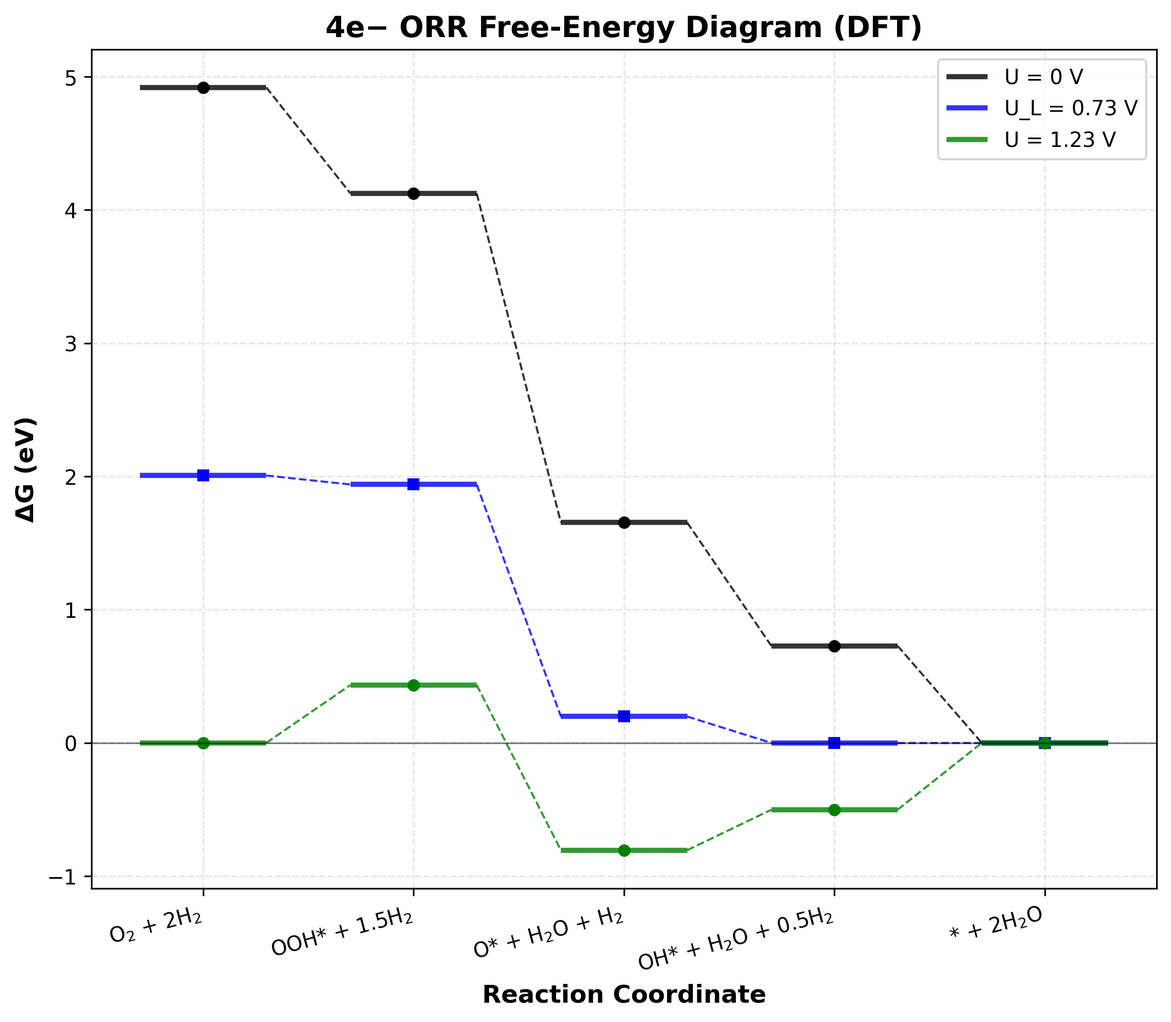
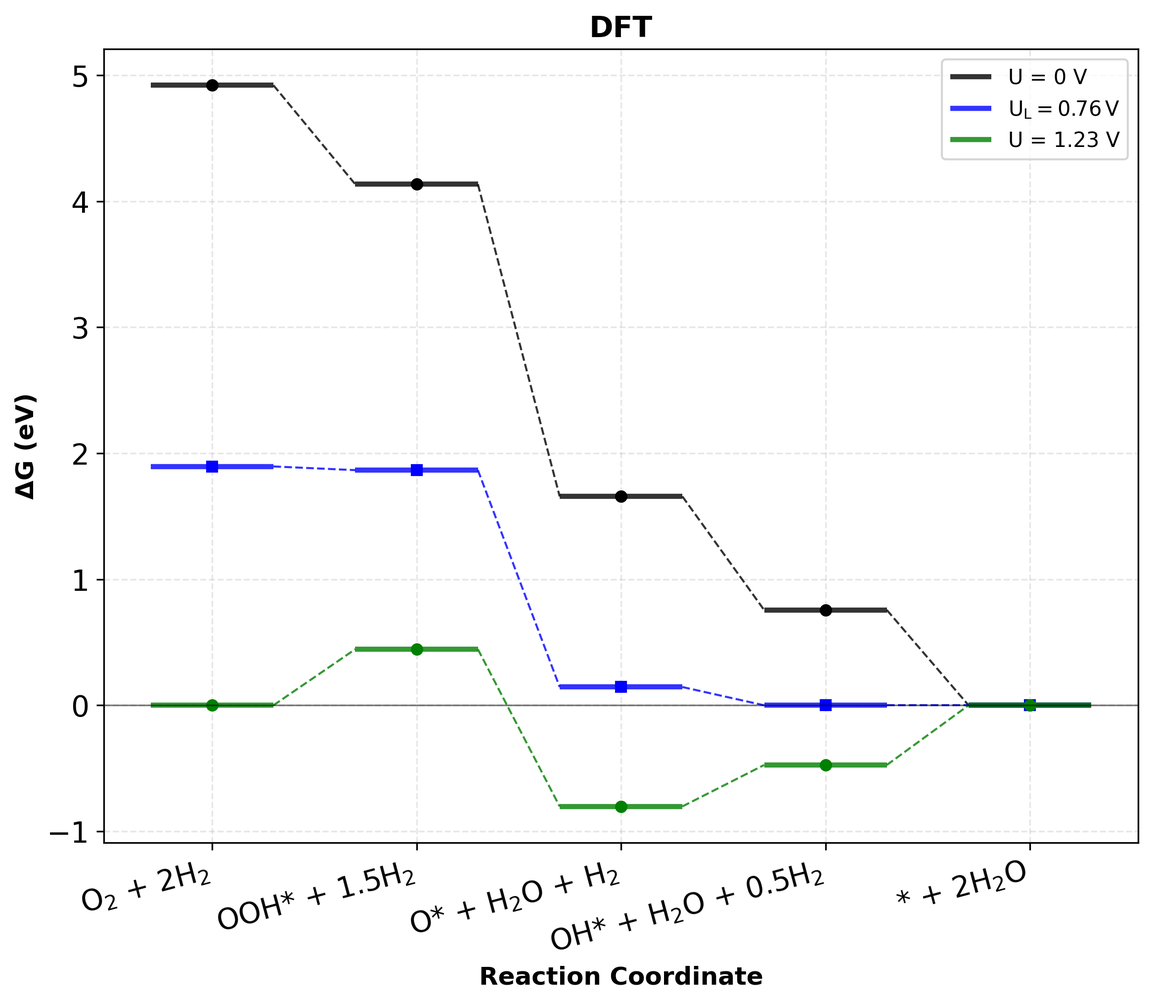
add result

diff --git a/paper/paper.md b/paper/paper.md
@@ -7,20 +7,20 @@ csl: american-chemical-society.csl
 
 ## Abstract
 
-合金触媒では高活性な原子組成と配置を効率的に探索、最適化することが重要である。本研究ではユニバーサルニューラルネットワークポテンシャルと条件付き変分オートエンコーダを統合し、Pt–Ni 合金表面の酸素還元反応（ORR）を対象に、活性と安定性を同時に最適化する構造の反復的生成・評価ワークフローを構築した。cVAE は、計算水素電極（CHE）に基づく過電圧 η と合金形成エネルギー E_form を条件ラベルとして学習し、条件を指定して新規構造を生成する。各候補の評価は NNP により高速化され、合計6回のイテレーションで各 128 構造、合計計 768 件を生成・評価した。イテレーションの進行に伴い、それぞれ生成されたデータセットの η 分布は低電位側にシフトし、平均値は 1.126 から 0.520 V へ低下した。同時に E_form の平均値は −0.027 から −0.047 eV/atom へと推移し、熱力学的安定性が向上した。さらに、学習されたVAEのエンコーダを用いて各イテレーションで得られたデータをマッピングすることで、初期データセットには含まれていないデータ空間からの構造生成が行われていることが確認された。本手法は、限られた初期データからでも、活性と安定性を同時に満たす構造を外挿的に提案できる枠組みであり、合金触媒の計算スクリーニングを大幅に効率化しうることを示す。
+高活性な合金触媒の設計に向け原子組成と配置を効率的に探索、最適化することが重要である。本研究ではユニバーサルニューラルネットワークポテンシャルと条件付き変分オートエンコーダを統合し、Pt–Ni 合金表面における酸素還元反応（ORR）を対象に、活性と安定性を同時に最適化する構造の反復的な生成・評価ワークフローを構築した。cVAE は、計算水素電極（CHE）に基づく過電圧 η と合金形成エネルギー E_form を条件ラベルとして学習し、条件を指定して新規構造を生成する。各構造の評価は NNP により行われ、6 回のイテレーションで各 128 構造、計 768 件を生成・評価した。イテレーションの進行に伴い、それぞれ生成されたデータセットの η 分布は低電位側にシフトし、平均値は 1.126 から 0.520 V へ低下した。同時に E_form の平均値は −0.027 から −0.047 eV/atom へと推移し、安定性が向上を確認した。さらに、学習された VAE のエンコーダを用いて各イテレーションで得られたデータをマッピングすることで、初期データに含まれない潜在空間領域の構造を生成していること、そして初期データセットとは異なる構造特性のデータが生成されていることが確認された。本手法は、限られた初期データからでも、活性と安定性を同時に満たす構造を外挿的に提案できる枠組みであり、合金触媒の開発を大幅に効率化しうることを示す。
 
 ## 1. Introduction
 
-固体高分子形燃料電池（PEMFC）は、再生可能エネルギー由来の水素を活用できるクリーンな発電技術として注目されている。一方で、カソードにおける酸素還元反応（oxygen reduction reaction, ORR）の速度が実用化のボトルネックであり、高活性かつ安価な電極触媒の開発が課題である。商用触媒としては白金（Pt）が中心であるが、希少性とコストの問題から、Ptに安価元素を合金化して性能と資源制約のバランスを取る戦略が広く検討されている。なかでもPt–Niは代表的な合金触媒であるものの、合金の組成・配置と活性・安定性の関係は、報告により最適比が異なるなど未だ統一的な理解に達していない。
+固体高分子形燃料電池（PEMFC）は、再生可能エネルギー由来の水素を活用できるクリーンな発電技術として注目されている。一方で、カソードにおける酸素還元反応（oxygen reduction reaction, ORR）の速度が実用化のボトルネックであり、高活性な電極触媒の開発が課題である。商用触媒としては白金（Pt）が中心であるが、希少性とコストの問題から、Pt に安価な元素を合金化して性能と資源制約のバランスを取る戦略が広く検討されている。なかでも Pt–Ni は代表的な合金触媒であるものの、合金の組成・配置と活性・安定性の関係は、報告により最適比が異なるなど未だ統一的な理解に達していない。
 
 こうした合金触媒の最適化に向けた材料設計では、元素組成比と原子配置の組合せは膨大であり、第一原理計算（DFT）を用いた候補パターンの網羅的探索は計算資源の観点から現実的でない。また、記述子ベースの機械学習によるスクリーニングは、重要な特徴量の決定と特性予測に有効であるが、モデルの学習には十分なデータ量の確保、そして新構造の探索には作成したモデルを用いた多数の推論が必要となり未知の化学データ空間からの構造生成は難しい。そこで、材料特性から構造への逆設計に向けて、生成モデルの利用が提案されており、未知の化学データ空間からの構造生成に対して有効なアプローチとして期待されている。
 
 特に、合金触媒設計において生成モデルを活用することで、既存データに含まれない外挿的な合金触媒構造候補の提案が可能であることが示されている。
-しかし、生成モデルよる提案構造を都度DFTで評価するワークフローは、データ数の拡大とともに急速に非効率化する。この課題に対し、第一原理計算データで事前学習したユニバーサルニューラルネットワークポテンシャル（NNP）を用いると、DFTに近い精度を維持しながら計算を高速化でき、反復的な生成・評価ループの実用性が大きく向上する。
+しかし、生成モデルによる提案構造を都度 DFT で評価するワークフローは、データ数の拡大とともに急速に非効率化する。この課題に対し、第一原理計算データで事前学習したユニバーサルニューラルネットワークポテンシャル（NNP）を用いると、DFT に近い精度を維持しながら計算を高速化でき、イテレーション型の生成・評価ループの実用性が大きく向上する。
 
-これらの触媒設計には生成モデルとしてGANが用いられているが、バルク材料の設計においてはGAN同様に一般的な生成モデルである変分オートエンコーダ(VAE)も利用されている。そして、VAEはGANに比べて、訓練が比較的容易で安定化しやすく、よく正則化された連続的な潜在空間を活用してサンプリングや補間により未観測候補を生成しやすく、さらに条件付き学習により高精度に所望クラス（ラベル）を直接指定して生成できることが報告されている。
+これらの触媒設計には生成モデルとしてGANが用いられているが、バルク材料の設計においてはGAN同様に一般的な生成モデルである変分オートエンコーダ(VAE)も利用されている。そして、VAEはGANに比べて、訓練が比較的容易で安定化しやすく、よく正則化された連続的な潜在空間を活用してサンプリングや補間により未観測候補を生成しやすい。さらに条件付き学習により高精度に所望クラス（ラベル）を直接指定して生成できることが報告されている。
 
-そこで本研究は、Pt–Ni 合金表面の ORR を対象に、ユニバーサル NNP による高速評価と生成モデルによる構造生成を統合した反復的な設計ワークフローを提案する。具体的には、計算水素電極（CHE）に基づく過電圧（η）と合金形成エネルギー（E_form）を同時に条件付けた条件付き変分オートエンコーダ（cVAE）で新規構造を生成し、NNPで迅速に評価する工程を反復することで、活性（低η）と安定性（低E_form）を両立したPt-Ni触媒を効率的に探索する。
+そこで本研究は、Pt–Ni 合金表面の ORR を対象に、ユニバーサル NNP による高速評価と生成モデルによる構造生成を統合したイテレーション型の設計ワークフローを提案する。具体的には、計算水素電極（CHE）に基づく過電圧（η）と合金形成エネルギー（E_form）を同時に条件付けた条件付き変分オートエンコーダ（cVAE）で新規構造を生成し、NNP で迅速に評価する工程をイテレーションとして繰り返すことで、活性（低 η）と安定性（低 E_form）を両立した Pt–Ni 触媒を効率的に探索する。
 
 ## 2. Methods
 
@@ -51,7 +51,7 @@ $$U_L=\min_i\left[\frac{\Delta G_i(0)}{e}\right],\quad \eta=1.23-U_L\;\mathrm{[V
 
 スラブモデルは fcc(111) 面からなる 4 層の(4×4)の64原子構造であり、下 2 層を固定、上 2 層と吸着種は全自由度で緩和した。z 方向には 15 Å の真空を設け、表面法線方向の双極子補正を適用した。構造最適化は最大残差力 0.05 eV/Å を閾値として収束させ、気相参照の H2 と H2O は 15 Å 立方セル中で最適化して用いた。吸着系では OOH、O、OH を ontop／bridge／fcc‑hollow／hcp‑hollow に初期配置して最安定サイトを採用した。また、セルサイズは真空層を付与する前に最適化した。
 
-なお、本研究の反復ループにおける η と E_form の評価は一貫して NNP（uma‑s‑1p1）で実施し、DFT は NNP の検証および代表構造の解析に用いた。
+なお、本研究のイテレーション・ループにおける η と E_form の評価は一貫して NNP（uma‑s‑1p1）で実施し、DFT は NNP の検証および代表構造の解析に用いた。
 
 ## 2.3 Variational Auto-Encoder
 
@@ -92,9 +92,9 @@ iter0〜iter5 の 6 イテレーションを実施し，1 iter あたり 128 構
 ## 3. Results and Discussion
 
 ## 3.1 Accuracy of NNP
-本研究で用いたユニバーサル NNP（uma‑s‑1p1）のPt-Ni合金系への適応の妥当性を、DFT 計算との直接比較で検証した。Figure 1 は、Pt–Ni 合金構造に対して求めた（i）ORR 過電圧 η（V）と（ii）合金形成エネルギー E_form（eV/atom）について、DFT（横軸）と NNP（縦軸）のパリティを示す。いずれもスピアマンの順位相関係数が高く、過電圧で ρ ≈ 0.985、形成エネルギーで ρ ≈ 0.982、絶対誤差はそれぞれ MAE ≈ 0.060 V、MAE ≈ 0.007 eV/atom であった。
+本研究で用いたユニバーサル NNP（uma‑s‑1p1）のPt-Ni合金系への適応の妥当性を、DFT 計算との直接比較で検証した。Figure 1 は、Pt–Ni 合金構造に対して求めた（i）ORR 過電圧 η（V）と（ii）合金形成エネルギー E_form（eV/atom）について、DFT（横軸）と NNP（縦軸）のプロットを示す。いずれもスピアマンの順位相関係数が高く、過電圧で ρ ≈ 0.985、形成エネルギーで ρ ≈ 0.982であり、データ間の大小関係が維持されていることが確認できる。また、絶対誤差はそれぞれ MAE ≈ 0.060 V、MAE ≈ 0.007 eV/atom であった。
 
-プロットはおおむね対角線上に分布し、特に η では広い値域（約 0.5–1.8 V）で一致が保たれている。E_form については、-0.03 meV/atom未満の領域で NNP が不安定側へ過小評価する傾向が見られるものの、系統誤差は0.01 meV/atom 程度であり、スクリーニング用途としては許容範囲である。したがって、本研究の反復的生成ワークフローでは、NNP による特性評価が妥当であると判断した。
+プロットはおおむね対角線上に分布し、特に η では広い値域（約 0.5–1.8 V）で一致が保たれている。E_form については、−0.03 eV/atom 未満の領域で NNP が不安定側へ過小評価する傾向が見られるものの、系統誤差は 0.01 eV/atom 程度であり、スクリーニング用途としては許容範囲である。したがって、本研究のイテレーション型生成ワークフローでは、NNP による特性評価が妥当であると判断した。
 
 ここで、合金形成エネルギーは以下で定義する。
 
@@ -112,9 +112,9 @@ Figure 1. Parity plots of overpotential (V) and alloy formation energy (eV/atom)
 
 ## 3.2 Iterative Improvement and Data Distributions
 
-反復的な生成・評価過程により、過電圧および合金形成エネルギーの分布は高性能側へ系統的に推移した。Figure 2 のバイオリンプロットから、iter の進行とともに過電圧分布が低電位側に、形成エネルギー分布がより負（熱力学的に安定）な側へ移動する傾向が確認できる。定量的には、iter0→iter5で過電圧の平均は 1.126 V から 0.520 V へ、合金形成エネルギーの平均は −0.027 eV/atom から −0.047 eV/atom へとそれぞれ低下した（詳細統計は SI 参照）。
+イテレーションによる生成・評価過程により、過電圧および合金形成エネルギーの分布は高性能側へ系統的に推移した。Figure 2 のバイオリンプロットから、iter の進行とともに過電圧分布が高活性側に、形成エネルギー分布がより安定な方へ移動する傾向が確認できる。定量的には、iter0→iter5 で過電圧の平均は 1.126 V から 0.520 V へ、合金形成エネルギーの平均は −0.027 eV/atom から −0.047 eV/atom へとそれぞれ低下した。
 
-分布の同時変化を二次元上で俯瞰すると（Figure 3）、過電圧の低下とともに合金形成エネルギーもより負の領域へ移動し、活性と安定性の両立に向けてデータ群が収束していく様子が確認できる。
+分布の同時変化を二次元上で俯瞰すると（Figure 3）、過電圧の低下とともに合金形成エネルギーもより負の領域へ移動し、活性と安定性の両立に向けて均一なデータが生成されていく様子が確認できる。
 
 Figure 2. Combined distributions of alloy formation energy and overpotential (iter0–5).
 
@@ -126,24 +126,38 @@ Figure 3. Overpotential vs. alloy formation energy (iter0–5).
 
 ## 3.3 Latent-Space Visualization and Property-Colored Distributions
 
-iter5 の学習済み VAE のエンコーダから得た潜在平均（μ）を t‑SNE により 2 次元に可視化すると、生成・評価の反復に伴い、データ群は潜在空間上で初期分布（iter0）から離れた領域へと拡張していることが確認できる。
+データの分布特性を解析するために、イテレーション 5 で学習した cVAE のエンコーダを用い、各構造（iter0–5）を32次元の潜在空間に圧縮したのちに、t‑SNE で 2 次元に可視化した。Figure 4（上）はイテレーションごとに色分けした結果である。初期データ（iter0）は図の左側の領域に主に分布するのに対し、iter1 以降は点群が中央〜右側へと大きく広がっている。これは、イテレーションの過程で iter0 には存在しなかったデータ空間の領域にまで、構造探索・生成が拡張したことを示している。
 
-Figure 4. t‑SNE colored by iteration (VAE latent mean μ; iter0–5).
+さらに、合金触媒の構造が潜在座標にどう反映されるかを確かめるため、各点を「最表面層の Pt 原子数が下層と比べてどれだけ多いか」を表す指標で色付けした。指標は次式で定義した：
+
+$$
+\mathrm{Surface\ Pt\ excess}
+\;=\;
+\frac{1}{3}\sum_{k=2}^{4}\bigl[\,N_{\mathrm{Pt}}^{(\mathrm{top})}-N_{\mathrm{Pt}}^{(k)}\,\bigr],
+$$
+
+ここで $N_{\mathrm{Pt}}^{(\ell)}$ は層 $\ell$ に含まれる Pt 原子数である。結果として、iter0 では 0 近傍の点がほとんどで、表面と下層の Pt 数が概ね同程度である。一方、iter1 以降では正の値（赤）をとる点が顕著に増え、最表面の Pt が下層（2〜4 層の平均）より優位に多い、いわゆるPtスキンの構造が選択的に生成されていることが分かる。これは 3.2 節で示した過電圧分布の改善（低 η 側へのシフト）とも整合的である。
+
+以上より、反復的な構造生成と評価により、初期データには存在しなかった潜在空間の領域までデータが拡張されること、同時に、Ptスキン構造の顕在化という物理化学的に意味のある特徴の発生が潜在空間のマッピングと対応していることが確認された。
+
+Figure 4. 上: t‑SNE colored by iteration (VAE latent mean μ; iter0–5). 下: t‑SNE colored by Surface Pt excess (count).
 
 <img src="fig/tsne_latent_space_iter0-5_mean.png" alt="t-SNE latent space (mean) iter0-5" style="width: 50%; background-color: white;">
+
+<img src="fig/tsne_latent_space_pt_layer_diff_iter0-5_mean.png" alt="t-SNE latent space (mean) iter0-5" style="width: 50%; background-color: white;">
 
 
 ## 3.4 Evolution of Catalytic Properties
 
-各イテレーションで得られた触媒構造の特性が（i）活性の先行研究トレンドと矛盾せず、（ii）反復生成・評価により系統的に改善されていくことを確認する。Figure 5 は ORR の CHE と線形スケーリング則に基づくボルケーノプロットに、各 iter の構造を重ね合わせたものであり、Figure 6 は組成と安定性を対応付けた相図である。
+各イテレーションで得られた触媒構造の特性が、触媒活性の先行研究トレンドと矛盾せず、イテレーションにより系統的に改善されていくことを確認する。Figure 5 は ORR の CHE と線形スケーリング則に基づくボルケーノプロットに、各イテレーションの構造を重ね合わせたものであり、Figure 6 は組成比と合金形成エネルギーを対応付けた相図である。
 
-Figure 5 では、x 軸に ΔG_OH、y 軸に理論限界電位 U_L を取り、CHE およびスケーリング関係から得られる 2 本の境界直線（強結合側: U_L = ΔG_OH、弱結合側: U_L = 1.72 − ΔG_OH）と理想水平線（U_L = 1.23 V）を示した。2 直線の交点は ΔG_OH ≈ 0.86 eV であり、ここがボルケーノプロットの頂点（U_L 最大）に対応する。iter の進行とともに、データ点は頂点近傍へと集約する傾向を示し、活性が理論最適領域へ近づく様子が確認できる。すなわち、3.2 節の η 分布の低下に対応して、ボルケーノプロット上でも U_L が高い領域である ΔG_OH ≈ 0.86 eV への移動が観測される。
+Figure 5 では、x 軸に ΔG_OH、y 軸に理論限界電位 U_L を取り、CHE およびスケーリング関係から得られる 2 本の境界直線（強結合側: U_L = ΔG_OH、弱結合側: U_L = 1.72 − ΔG_OH）と理想水平線（U_L = 1.23 V）を示した。2 直線の交点は ΔG_OH ≈ 0.86 eV であり、ここがボルケーノプロットの頂点（U_L 最大）に対応する。反復の進行とともに、データ点は頂点近傍へと集約する傾向を示し、活性が理論最適領域へ近づく様子が確認できる。すなわち、3.2 節の η 分布の低下に対応して、ボルケーノプロット上でも U_L が高い領域である ΔG_OH ≈ 0.86 eV への移動が観測される。
 
 Figure 5. Volcano plot: ΔG_OH vs limiting potential (iter0–5).
 
 <img src="fig/volcano_dG_OH_vs_limiting_potential_iter0-5.png" alt="Volcano plot" style="width: 50%; background-color: white;">
 
-次に Figure 6 は、Ni 含有率（x_Ni）と合金形成エネルギー E_form（eV/atom、負ほど安定）の相図を iter 色で示す。iter の進行に伴い、分布はより負の E_form 側へ推移しつつ、x_Ni ≈ 0.4–0.6 の等量近傍にサンプルが集中する傾向が見られる。これは、活性が高い領域（Figure 5 の頂点近傍）と、熱力学的に安定な領域（より負の E_form）が、探索の反復によって同時に強化されていることを示唆する。
+次に Figure 6 は、Ni 含有率（x_Ni）と合金形成エネルギー E_form（eV/atom、負ほど安定）の相図を iter 色で示す。iter の進行に伴い、分布はより負の E_form 側へ推移しつつ、x_Ni ≈ 0.4–0.6 の等量近傍にサンプルが集中する傾向が見られる。これは、活性が高い領域（Figure 5 の頂点近傍）と、熱力学的に安定な領域（より負の E_form）が、探索の反復によって同時に改善されていることを示唆する。
 
 Figure 6. Phase diagram: Ni fraction vs formation energy colored by iter.
 
@@ -152,23 +166,20 @@ Figure 6. Phase diagram: Ni fraction vs formation energy colored by iter.
  
 ## 3.5 DFT Validation
 
-iter5 で得られた生成構造の一つである Pt33Ni31（Ni31Pt33）について、DFT による検証を行った。吸着構造については OH* と OOH* は NNP と DFT で得られた最安定配置が共に一致したが、O* については両者でわずかな差異が見られた。Figure 7 に、NNP/DFT の最安定構造（OH* / O* / OOH*）と対応する吸着反応エネルギー ΔE をまとめて示す。一方で、ORR 自由エネルギーダイアグラムを比較したところ、限界電位は NNP/DFT でそれぞれ 0.713 V および 0.728 V、過電圧は 0.517 V および 0.502 V であり、両者は同じ律速段階（OH* → H2O）を示し、数値差は ≲0.02 V と良好に一致していた。
+最終的にイテレーション 5 で得られた構造のうち、η < 0.60 V かつ E_form < −0.05 eV/atom を満たす 16 構造を抽出し、DFT による再評価を行った。全体傾向として、過電圧は NNP と DFT で良好に一致し、平均絶対誤差は MAE ≈ 0.018 V であった。一方、合金形成エネルギーは 3.1 節で述べた通り、NNP が DFT に比べて0.01 eV/atom 程度の過小評価する傾向が引き続き確認された。
+しかし、全体としてDFTで検証された16点のデータは、NNPによって評価された高活性かつ高安定性の傾向を維持しており、本ワークフローによって最終的に得られた構造の有用性が確認された。
 
-また、NNPとDFTで計算された合金形成エネルギーはNNPが−0.0526 eV/atom、DFTが−0.0624 eV/atomであり、絶対差は約0.00979 eV/atom（≲0.01 eV/atom）であった。この傾向は、3.1節で示したNNPの形成エネルギーに関するDFT比較と整合的であり、NNPがDFTに対して系統的にわずかに過小評価する傾向に従う。
+<img src="fig/scatter_overpotential_DFTx_NNPy.png" alt="Parity: overpotential (DFT vs NNP)" style="width: 31%; background-color: white;"> <img src="fig/scatter_formation_energy_DFTx_NNPy.png" alt="Parity: formation energy (DFT vs NNP)" style="width: 31%; background-color: white;"> <img src="fig/overpotential_vs_formation_energy_DFT_NNP.png" alt="Overpotential vs formation energy: DFT (red) and NNP (green)" style="width: 31%; background-color: white;">
 
-以上より、NNPで得られた構造に対してDFTで再評価した結果、NNPとDFTの限界電位、律速段階が良好に一致し、また、提案手法の定量的信頼性を支持した。
+また、Figure 7 は、イテレーション 5 で得られた高活性・高安定構造のうちの1つである Pt35Ni29 について、OH*／O*／OOH* の3つの吸着種に対する NNP と DFT の最安定配置および吸着反応エネルギーを可視化・比較したものである。３つの吸着種すべてで最安定サイトは一致していることが確認できる。さらに Figure 8 の NNP と DFT による ORR 自由エネルギーダイアグラムを比較すると、限界電位 U_Lの値は0.731Vと0.756Vで誤差は0.025Vであり、また律速段階が両者で一致していることが確認できる。
 
-Figure 7. Adsorption structures and energies (ΔE) for Pt33Ni31: NNP (top) vs DFT (bottom).
+Figure 7. Adsorption structures and energies (ΔE): NNP (top) vs DFT (bottom).
 
 <img src="fig/adsorption_matrix.png" alt="Adsorption structures and energies: NNP vs DFT (OH*, O*, OOH*)" style="width: 50%; background-color: white;">
 
-Figure 8. ORR free energy diagram of Pt33Ni31 (NNP; fairchem).
+Figure 8. ORR free‑energy diagrams: NNP (left) and DFT (right).
 
-<img src="fig/ORR_free_energy_diagram_NNP.png" alt="ORR free energy diagram (NNP; fairchem) for Pt33Ni31" style="width: 50%; background-color: white;">
-
-Figure 9. ORR free energy diagram of Pt33Ni31 (DFT; VASP).
-
-<img src="fig/ORR_free_energy_diagram_DFT.png" alt="ORR free energy diagram (DFT; VASP) for Pt33Ni31" style="width: 50%; background-color: white;">
+<img src="fig/ORR_free_energy_diagram_NNP.png" alt="ORR free energy diagram (NNP)" style="width: 46%; background-color: white;"> <img src="fig/ORR_free_energy_diagram_DFT.png" alt="ORR free energy diagram (DFT)" style="width: 46%; background-color: white;">
 
 
 ここで、OH, O, OOH の吸着反応エネルギーは以下で定義する。
@@ -184,10 +195,12 @@ $$
 $$
 E_{\mathrm{ads}}(\mathrm{OOH}^*) = E(\mathrm{OOH}^*) - \Bigl[ E(\mathrm{*}) + E(\mathrm{H_2O}) + \tfrac{1}{2}E(\mathrm{H_2}) \Bigr].
 $$
+
+ここで、$E(\mathrm{*})$ は吸着種を持たない清浄表面のエネルギー、$E(\cdot)$ は各系の最安定構造に対する全エネルギーを表す。
  
 ## 4. Conclusions
 
-本研究では、汎用機械学習ポテンシャル（NNP）と条件付き変分オートエンコーダ（cVAE）を統合し、Pt–Ni 合金表面の酸素還元反応（ORR）を対象に触媒活性と安定性を最適化しながら「生成→評価→再学習」を反復するワークフローを構築した。cVAE は計算水素電極（CHE）に基づく過電圧 η と合金形成エネルギー E_form を条件として学習し、NNP により各候補のエネルギー評価を高速化することで、iter0〜5（各128構造、計768件）の反復を通じて、η と E_form の分布がそれぞれ低電位側およびより負の側へ系統的に移動することを示した。さらに、ボルケーノプロットと相図の確認から、データ点がボルケーノ頂点近傍および安定域へ集約する傾向が確認され、既報の線形スケーリングに基づく活性トレンドと矛盾しない物理化学的一貫性が担保された。加えて、iter5 で得られた Pt33Ni31 に対する自由エネルギーダイアグラムの個別検証では、NNP と DFT の U_L・η・律速段階がよく一致し、提案手法の定量的信頼性を支持した。以上より、本ワークフローは、限られた初期データからでも、活性（低 η）と安定性（低 E_form）を同時に満たす合金表面構造を外挿的に提案しうる実用的・汎用的な計算スクリーニング基盤であることを示した。
+本研究では、汎用ニューラルネットワークポテンシャル（NNP）と条件付き変分オートエンコーダ（cVAE）を統合し、Pt–Ni 合金表面の酸素還元反応（ORR）を対象に触媒活性と安定性を最適化しながら「生成→評価→再学習」を反復するワークフローを構築した。cVAE は計算水素電極（CHE）に基づく過電圧 η と合金形成エネルギー E_form を条件として学習し、NNP により各候補のエネルギー評価を高速化することで、iter0〜5（各128構造、計768件）の反復を通じて、η と E_form の分布がそれぞれ低電位側およびより負の側へ系統的に移動することを示した。さらに、ボルケーノプロットと相図の確認から、データ点がボルケーノ頂点近傍および安定域へ集約する傾向が確認され、既報の線形スケーリングに基づく活性トレンドと矛盾しない物理化学的一貫性が担保された。加えて、iter5 で得られた Pt33Ni31 に対する自由エネルギーダイアグラムの個別検証では、NNP と DFT の U_L・η・律速段階がよく一致し、提案手法の定量的信頼性を支持した。以上より、本ワークフローは、限られた初期データからでも、活性（低 η）と安定性（低 E_form）を同時に満たす合金表面構造を外挿的に提案しうる実用的・汎用的な計算スクリーニング基盤であることを示した。
 
 ## Data and Code Availability
 
